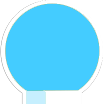
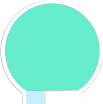
update

diff --git a/notebook.html b/notebook.html
@@ -129,20 +129,19 @@
     <li>
         <a href="javascript:void(0);" onclick="temper(1,'#journal')">Journal</a>
         <ul>
-            <li><a href="javascript:void(0);" onclick="temper(2)">Killswitch</a></li>
-            <li><a href="javascript:void(0);" onclick="temper(3)">Promoter Screen</a></li>
-            <li><a href="javascript:void(0);" onclick="temper(4)">Electrochemistry</a></li>
-            <li><a href="javascript:void(0);" onclick="temper(5)">Biosensor</a></li>
-            <li><a href="javascript:void(0);" onclick="temper(6)">Decarboxylation</a></li>
-            <li><a href="javascript:void(0);" onclick="temper(7)">Desulfurization</a></li>
-            <li><a href="javascript:void(0);" onclick="temper(8)">Denitrogenation</a></li>
-            <li><a href="javascript:void(0);" onclick="temper(9)">Catechol</a></li>
-            <li><a href="javascript:void(0);" onclick="temper(4)">Bioreactor</a></li>
-            <li><a href="javascript:void(0);" onclick="temper(4)">Flux Analysis</a></li>
+            <li><a href="javascript:void(0);" onclick="temper(2,'#feb')">Feb.</a></li>
+            <li><a href="javascript:void(0);" onclick="temper(3,'#mar')">Mar.</a></li>
+            <li><a href="javascript:void(0);" onclick="temper(4,'#apr')">Apr.</a></li>
+            <li><a href="javascript:void(0);" onclick="temper(5,'#may')">May.</a></li>
+            <li><a href="javascript:void(0);" onclick="temper(6,'#jun')">Jun.</a></li>
+            <li><a href="javascript:void(0);" onclick="temper(7,'#jul')">Jul.</a></li>
+            <li><a href="javascript:void(0);" onclick="temper(8,'#aug')">Aug.</a></li>
+            <li><a href="javascript:void(0);" onclick="temper(9,'#sep')">Sep.</a></li>
+           
         </ul>
     </li>
     <li>
-        <a href="javascript:void(0);" onclick="temper(4)">Protocols</a>
+        <a href="javascript:void(0);" onclick="temper(10)">Protocols</a>
     </li>
 </ul>
 
@@ -161,8 +160,149 @@
 
               <div class="main">
                 <ul class="cbp_tmtimeline">
+                    <div id="feb"></div>
                     <li>
-                        <time class="cbp_tmtime" datetime="2013-04-12 18:30"><span>4/12/13</span> <span>4-12</span></time>
+                        <time class="cbp_tmtime" datetime="2013-02-01"><span>2/1/13</span> <span>2-1</span></time>
+                        <div class="cbp_tmicon cbp_tmicon-phone"></div>
+                        <div class="cbp_tmlabel">
+                            <h2>Watercress ricebean</h2>
+                            <p>Peanut gourd nori welsh onion rock melon mustard jícama. Desert raisin amaranth kombu aubergine kale seakale brussels sprout pea. Black-eyed pea celtuce bamboo shoot salad kohlrabi leek squash prairie turnip catsear rock melon chard taro broccoli turnip greens. Fennel quandong potato watercress ricebean swiss chard garbanzo. Endive daikon brussels sprout lotus root silver beet epazote melon shallot.</p>
+                        </div>
+                    </li>
+                    <li>
+                        <time class="cbp_tmtime" datetime="2013-02-07"><span>2/7/13</span> <span>2-7</span></time>
+                        <div class="cbp_tmicon cbp_tmicon-phone"></div>
+                        <div class="cbp_tmlabel">
+                            <h2>Watercress ricebean</h2>
+                            <p>Peanut gourd nori welsh onion rock melon mustard jícama. Desert raisin amaranth kombu aubergine kale seakale brussels sprout pea. Black-eyed pea celtuce bamboo shoot salad kohlrabi leek squash prairie turnip catsear rock melon chard taro broccoli turnip greens. Fennel quandong potato watercress ricebean swiss chard garbanzo. Endive daikon brussels sprout lotus root silver beet epazote melon shallot.</p>
+                        </div>
+                    </li>
+                    <li>
+                        <time class="cbp_tmtime" datetime="2013-02-14"><span>2/14/13</span> <span>2-14</span></time>
+                        <div class="cbp_tmicon cbp_tmicon-phone"></div>
+                        <div class="cbp_tmlabel">
+                            <h2>Watercress ricebean</h2>
+                            <p>Peanut gourd nori welsh onion rock melon mustard jícama. Desert raisin amaranth kombu aubergine kale seakale brussels sprout pea. Black-eyed pea celtuce bamboo shoot salad kohlrabi leek squash prairie turnip catsear rock melon chard taro broccoli turnip greens. Fennel quandong potato watercress ricebean swiss chard garbanzo. Endive daikon brussels sprout lotus root silver beet epazote melon shallot.</p>
+                        </div>
+                    </li>
+                    <li>
+                        <time class="cbp_tmtime" datetime="2013-02-24"><span>2/24/13</span> <span>2-24</span></time>
+                        <div class="cbp_tmicon cbp_tmicon-phone"></div>
+                        <div class="cbp_tmlabel">
+                            <h2>Watercress ricebean</h2>
+                            <p>Peanut gourd nori welsh onion rock melon mustard jícama. Desert raisin amaranth kombu aubergine kale seakale brussels sprout pea. Black-eyed pea celtuce bamboo shoot salad kohlrabi leek squash prairie turnip catsear rock melon chard taro broccoli turnip greens. Fennel quandong potato watercress ricebean swiss chard garbanzo. Endive daikon brussels sprout lotus root silver beet epazote melon shallot.</p>
+                        </div>
+                    </li>
+                    <div id="mar"></div>
+                    <li>
+                        <time class="cbp_tmtime" datetime="2013-03-01"><span>3/1/13</span> <span>3-1</span></time>
+                        <div class="cbp_tmicon cbp_tmicon-phone"></div>
+                        <div class="cbp_tmlabel">
+                            <h2>Watercress ricebean</h2>
+                            <p>Peanut gourd nori welsh onion rock melon mustard jícama. Desert raisin amaranth kombu aubergine kale seakale brussels sprout pea. Black-eyed pea celtuce bamboo shoot salad kohlrabi leek squash prairie turnip catsear rock melon chard taro broccoli turnip greens. Fennel quandong potato watercress ricebean swiss chard garbanzo. Endive daikon brussels sprout lotus root silver beet epazote melon shallot.</p>
+                        </div>
+                    </li>
+                    <li>
+                        <time class="cbp_tmtime" datetime="2013-03-08"><span>3/8/13</span> <span>3-8</span></time>
+                        <div class="cbp_tmicon cbp_tmicon-phone"></div>
+                        <div class="cbp_tmlabel">
+                            <h2>Watercress ricebean</h2>
+                            <p>Peanut gourd nori welsh onion rock melon mustard jícama. Desert raisin amaranth kombu aubergine kale seakale brussels sprout pea. Black-eyed pea celtuce bamboo shoot salad kohlrabi leek squash prairie turnip catsear rock melon chard taro broccoli turnip greens. Fennel quandong potato watercress ricebean swiss chard garbanzo. Endive daikon brussels sprout lotus root silver beet epazote melon shallot.</p>
+                        </div>
+                    </li>
+                    <li>
+                        <time class="cbp_tmtime" datetime="2013-05-04"><span>3/14/13</span> <span>3-14</span></time>
+                        <div class="cbp_tmicon cbp_tmicon-phone"></div>
+                        <div class="cbp_tmlabel">
+                            <h2>Watercress ricebean</h2>
+                            <p>Peanut gourd nori welsh onion rock melon mustard jícama. Desert raisin amaranth kombu aubergine kale seakale brussels sprout pea. Black-eyed pea celtuce bamboo shoot salad kohlrabi leek squash prairie turnip catsear rock melon chard taro broccoli turnip greens. Fennel quandong potato watercress ricebean swiss chard garbanzo. Endive daikon brussels sprout lotus root silver beet epazote melon shallot.</p>
+                        </div>
+                    </li>
+                    <li>
+                        <time class="cbp_tmtime" datetime="2013-03-24"><span>3/24/13</span> <span>3-24</span></time>
+                        <div class="cbp_tmicon cbp_tmicon-phone"></div>
+                        <div class="cbp_tmlabel">
+                            <h2>Watercress ricebean</h2>
+                            <p>Peanut gourd nori welsh onion rock melon mustard jícama. Desert raisin amaranth kombu aubergine kale seakale brussels sprout pea. Black-eyed pea celtuce bamboo shoot salad kohlrabi leek squash prairie turnip catsear rock melon chard taro broccoli turnip greens. Fennel quandong potato watercress ricebean swiss chard garbanzo. Endive daikon brussels sprout lotus root silver beet epazote melon shallot.</p>
+                        </div>
+                    </li>
+                    <div id="apr"></div>
+                    <li>
+                        <time class="cbp_tmtime" datetime="2013-04-04"><span>4/4/13</span> <span>4-4</span></time>
+                        <div class="cbp_tmicon cbp_tmicon-phone"></div>
+                        <div class="cbp_tmlabel">
+                            <h2>Watercress ricebean</h2>
+                            <p>Peanut gourd nori welsh onion rock melon mustard jícama. Desert raisin amaranth kombu aubergine kale seakale brussels sprout pea. Black-eyed pea celtuce bamboo shoot salad kohlrabi leek squash prairie turnip catsear rock melon chard taro broccoli turnip greens. Fennel quandong potato watercress ricebean swiss chard garbanzo. Endive daikon brussels sprout lotus root silver beet epazote melon shallot.</p>
+                        </div>
+                    </li>
+                    <li>
+                        <time class="cbp_tmtime" datetime="2013-04-04"><span>4/4/13</span> <span>4-4</span></time>
+                        <div class="cbp_tmicon cbp_tmicon-phone"></div>
+                        <div class="cbp_tmlabel">
+                            <h2>Watercress ricebean</h2>
+                            <p>Peanut gourd nori welsh onion rock melon mustard jícama. Desert raisin amaranth kombu aubergine kale seakale brussels sprout pea. Black-eyed pea celtuce bamboo shoot salad kohlrabi leek squash prairie turnip catsear rock melon chard taro broccoli turnip greens. Fennel quandong potato watercress ricebean swiss chard garbanzo. Endive daikon brussels sprout lotus root silver beet epazote melon shallot.</p>
+                        </div>
+                    </li>
+                    <li>
+                        <time class="cbp_tmtime" datetime="2013-04-04"><span>4/4/13</span> <span>4-4</span></time>
+                        <div class="cbp_tmicon cbp_tmicon-phone"></div>
+                        <div class="cbp_tmlabel">
+                            <h2>Watercress ricebean</h2>
+                            <p>Peanut gourd nori welsh onion rock melon mustard jícama. Desert raisin amaranth kombu aubergine kale seakale brussels sprout pea. Black-eyed pea celtuce bamboo shoot salad kohlrabi leek squash prairie turnip catsear rock melon chard taro broccoli turnip greens. Fennel quandong potato watercress ricebean swiss chard garbanzo. Endive daikon brussels sprout lotus root silver beet epazote melon shallot.</p>
+                        </div>
+                    </li>
+                    <div id="may"></div>
+                    <li>
+                        <time class="cbp_tmtime" datetime="2013-05-04"><span>5/4/13</span> <span>5-4</span></time>
+                        <div class="cbp_tmicon cbp_tmicon-phone"></div>
+                        <div class="cbp_tmlabel">
+                            <h2>Watercress ricebean</h2>
+                            <p>Peanut gourd nori welsh onion rock melon mustard jícama. Desert raisin amaranth kombu aubergine kale seakale brussels sprout pea. Black-eyed pea celtuce bamboo shoot salad kohlrabi leek squash prairie turnip catsear rock melon chard taro broccoli turnip greens. Fennel quandong potato watercress ricebean swiss chard garbanzo. Endive daikon brussels sprout lotus root silver beet epazote melon shallot.</p>
+                        </div>
+                    </li>
+                    <li>
+                        <time class="cbp_tmtime" datetime="2013-05-04"><span>5/4/13</span> <span>5-4</span></time>
+                        <div class="cbp_tmicon cbp_tmicon-phone"></div>
+                        <div class="cbp_tmlabel">
+                            <h2>Watercress ricebean</h2>
+                            <p>Peanut gourd nori welsh onion rock melon mustard jícama. Desert raisin amaranth kombu aubergine kale seakale brussels sprout pea. Black-eyed pea celtuce bamboo shoot salad kohlrabi leek squash prairie turnip catsear rock melon chard taro broccoli turnip greens. Fennel quandong potato watercress ricebean swiss chard garbanzo. Endive daikon brussels sprout lotus root silver beet epazote melon shallot.</p>
+                        </div>
+                    </li>
+                    <li>
+                        <time class="cbp_tmtime" datetime="2013-05-04"><span>5/4/13</span> <span>5-4</span></time>
+                        <div class="cbp_tmicon cbp_tmicon-phone"></div>
+                        <div class="cbp_tmlabel">
+                            <h2>Watercress ricebean</h2>
+                            <p>Peanut gourd nori welsh onion rock melon mustard jícama. Desert raisin amaranth kombu aubergine kale seakale brussels sprout pea. Black-eyed pea celtuce bamboo shoot salad kohlrabi leek squash prairie turnip catsear rock melon chard taro broccoli turnip greens. Fennel quandong potato watercress ricebean swiss chard garbanzo. Endive daikon brussels sprout lotus root silver beet epazote melon shallot.</p>
+                        </div>
+                    </li>
+                    <li>
+                        <time class="cbp_tmtime" datetime="2013-05-04"><span>5/4/13</span> <span>5-4</span></time>
+                        <div class="cbp_tmicon cbp_tmicon-phone"></div>
+                        <div class="cbp_tmlabel">
+                            <h2>Watercress ricebean</h2>
+                            <p>Peanut gourd nori welsh onion rock melon mustard jícama. Desert raisin amaranth kombu aubergine kale seakale brussels sprout pea. Black-eyed pea celtuce bamboo shoot salad kohlrabi leek squash prairie turnip catsear rock melon chard taro broccoli turnip greens. Fennel quandong potato watercress ricebean swiss chard garbanzo. Endive daikon brussels sprout lotus root silver beet epazote melon shallot.</p>
+                        </div>
+                    </li>
+                    <div id="jun"></div>
+                    <li>
+                        <time class="cbp_tmtime" datetime="2013-06-04"><span>6/4/13</span> <span>6-4</span></time>
+                        <div class="cbp_tmicon cbp_tmicon-phone"></div>
+                        <div class="cbp_tmlabel">
+                            <h2>Watercress ricebean</h2>
+                            <p>Peanut gourd nori welsh onion rock melon mustard jícama. Desert raisin amaranth kombu aubergine kale seakale brussels sprout pea. Black-eyed pea celtuce bamboo shoot salad kohlrabi leek squash prairie turnip catsear rock melon chard taro broccoli turnip greens. Fennel quandong potato watercress ricebean swiss chard garbanzo. Endive daikon brussels sprout lotus root silver beet epazote melon shallot.</p>
+                        </div>
+                    </li>
+                    <li>
+                        <time class="cbp_tmtime" datetime="2013-06-04"><span>6/4/13</span> <span>6-4</span></time>
+                        <div class="cbp_tmicon cbp_tmicon-phone"></div>
+                        <div class="cbp_tmlabel">
+                            <h2>Watercress ricebean</h2>
+                            <p>Peanut gourd nori welsh onion rock melon mustard jícama. Desert raisin amaranth kombu aubergine kale seakale brussels sprout pea. Black-eyed pea celtuce bamboo shoot salad kohlrabi leek squash prairie turnip catsear rock melon chard taro broccoli turnip greens. Fennel quandong potato watercress ricebean swiss chard garbanzo. Endive daikon brussels sprout lotus root silver beet epazote melon shallot.</p>
+                        </div>
+                    </li>
+                    <li>
+                        <time class="cbp_tmtime" datetime="2013-04-12"><span>4/12/13</span> <span>4-12</span></time>
                         <div class="cbp_tmicon cbp_tmicon-phone"></div>
                         <div class="cbp_tmlabel">
                             <h2>iGEM第一次会议</h2>
@@ -177,8 +317,9 @@
 </p>
                         </div>
                     </li>
+                    <div id="jul"></div>
                     <li>
-                        <time class="cbp_tmtime" datetime="2013-04-20 12:04"><span>4/20/13</span> <span>4-20</span></time>
+                        <time class="cbp_tmtime" datetime="2013-07-20"><span>7/20/13</span> <span>7-20</span></time>
                         <div class="cbp_tmicon cbp_tmicon-screen"></div>
                         <div class="cbp_tmlabel">
                             <h2>iGEM第二次会议</h2>
@@ -195,15 +336,16 @@
                         </div>
                     </li>
                     <li>
-                        <time class="cbp_tmtime" datetime="2013-04-28 05:36"><span>4/28/13</span> <span>4-28</span></time>
+                        <time class="cbp_tmtime" datetime="2013-04-28"><span>4/28/13</span> <span>4-28</span></time>
                         <div class="cbp_tmicon cbp_tmicon-mail"></div>
                         <div class="cbp_tmlabel">
                             <h2>Sprout garlic kohlrabi</h2>
                             <p>Parsnip lotus root celery yarrow seakale tomato collard greens tigernut epazote ricebean melon tomatillo soybean chicory broccoli beet greens peanut salad. Lotus root burdock bell pepper chickweed shallot groundnut pea sprouts welsh onion wattle seed pea salsify turnip scallion peanut arugula bamboo shoot onion swiss chard. Avocado tomato peanut soko amaranth grape fennel chickweed mung bean soybean endive squash beet greens carrot chicory green bean. Tigernut dandelion sea lettuce garlic daikon courgette celery maize parsley komatsuna black-eyed pea bell pepper aubergine cauliflower zucchini. Quandong pea chickweed tomatillo quandong cauliflower spinach water spinach.</p>
                         </div>
                     </li>
+                    <div id="aug"></div>
                     <li>
-                        <time class="cbp_tmtime" datetime="2013-05-04 13:15"><span>5/4/13</span> <span>5-4</span></time>
+                        <time class="cbp_tmtime" datetime="2013-08-04"><span>8/4/13</span> <span>8-4</span></time>
                         <div class="cbp_tmicon cbp_tmicon-phone"></div>
                         <div class="cbp_tmlabel">
                             <h2>Watercress ricebean</h2>
@@ -211,15 +353,16 @@
                         </div>
                     </li>
                     <li>
-                        <time class="cbp_tmtime" datetime="2013-05-10 21:30"><span>5/10/13</span> <span>5-10</span></time>
+                        <time class="cbp_tmtime" datetime="2013-08-10"><span>8/10/13</span> <span>8-10</span></time>
                         <div class="cbp_tmicon cbp_tmicon-earth"></div>
                         <div class="cbp_tmlabel">
                             <h2>Courgette daikon</h2>
                             <p>Parsley amaranth tigernut silver beet maize fennel spinach. Ricebean black-eyed pea maize scallion green bean spinach cabbage jícama bell pepper carrot onion corn plantain garbanzo. Sierra leone bologi komatsuna celery peanut swiss chard silver beet squash dandelion maize chicory burdock tatsoi dulse radish wakame beetroot.</p>
                         </div>
                     </li>
+                    
                     <li>
-                        <time class="cbp_tmtime" datetime="2013-05-19 12:11"><span>5/19/13</span> <span>5-18</span></time>
+                        <time class="cbp_tmtime" datetime="2013-07-19"><span>7/19/13</span> <span>7-18</span></time>
                         <div class="cbp_tmicon cbp_tmicon-screen"></div>
                         <div class="cbp_tmlabel">
                             <h2>Greens radish arugula</h2>
@@ -227,7 +370,32 @@
                         </div>
                     </li>
                     <li>
-                        <time class="cbp_tmtime" datetime="2013-05-28 09:56"><span>5/28/13</span> <span>5-28</span></time>
+                        <time class="cbp_tmtime" datetime="2013-07-28"><span>7/28/13</span> <span>7-28</span></time>
+                        <div class="cbp_tmicon cbp_tmicon-phone"></div>
+                        <div class="cbp_tmlabel">
+                            <h2>Sprout garlic kohlrabi</h2>
+                            <p>Parsnip lotus root celery yarrow seakale tomato collard greens tigernut epazote ricebean melon tomatillo soybean chicory broccoli beet greens peanut salad. Lotus root burdock bell pepper chickweed shallot groundnut pea sprouts welsh onion wattle seed pea salsify turnip scallion peanut arugula bamboo shoot onion swiss chard. Avocado tomato peanut soko amaranth grape fennel chickweed mung bean soybean endive squash beet greens carrot chicory green bean. Tigernut dandelion sea lettuce garlic daikon courgette celery maize parsley komatsuna black-eyed pea bell pepper aubergine cauliflower zucchini. Quandong pea chickweed tomatillo quandong cauliflower spinach water spinach.</p>
+                        </div>
+                    </li>
+                    <li>
+                        <time class="cbp_tmtime" datetime="2013-07-28"><span>7/28/13</span> <span>7-28</span></time>
+                        <div class="cbp_tmicon cbp_tmicon-phone"></div>
+                        <div class="cbp_tmlabel">
+                            <h2>Sprout garlic kohlrabi</h2>
+                            <p>Parsnip lotus root celery yarrow seakale tomato collard greens tigernut epazote ricebean melon tomatillo soybean chicory broccoli beet greens peanut salad. Lotus root burdock bell pepper chickweed shallot groundnut pea sprouts welsh onion wattle seed pea salsify turnip scallion peanut arugula bamboo shoot onion swiss chard. Avocado tomato peanut soko amaranth grape fennel chickweed mung bean soybean endive squash beet greens carrot chicory green bean. Tigernut dandelion sea lettuce garlic daikon courgette celery maize parsley komatsuna black-eyed pea bell pepper aubergine cauliflower zucchini. Quandong pea chickweed tomatillo quandong cauliflower spinach water spinach.</p>
+                        </div>
+                    </li>
+                    <div id="sep"></div>
+                    <li>
+                        <time class="cbp_tmtime" datetime="2013-09-28"><span>9/28/13</span> <span>9-28</span></time>
+                        <div class="cbp_tmicon cbp_tmicon-phone"></div>
+                        <div class="cbp_tmlabel">
+                            <h2>Sprout garlic kohlrabi</h2>
+                            <p>Parsnip lotus root celery yarrow seakale tomato collard greens tigernut epazote ricebean melon tomatillo soybean chicory broccoli beet greens peanut salad. Lotus root burdock bell pepper chickweed shallot groundnut pea sprouts welsh onion wattle seed pea salsify turnip scallion peanut arugula bamboo shoot onion swiss chard. Avocado tomato peanut soko amaranth grape fennel chickweed mung bean soybean endive squash beet greens carrot chicory green bean. Tigernut dandelion sea lettuce garlic daikon courgette celery maize parsley komatsuna black-eyed pea bell pepper aubergine cauliflower zucchini. Quandong pea chickweed tomatillo quandong cauliflower spinach water spinach.</p>
+                        </div>
+                    </li>
+                    <li>
+                        <time class="cbp_tmtime" datetime="2013-09-28"><span>9/28/13</span> <span>9-28</span></time>
                         <div class="cbp_tmicon cbp_tmicon-phone"></div>
                         <div class="cbp_tmlabel">
                             <h2>Sprout garlic kohlrabi</h2>

diff --git a/css/segmentation.min.css b/css/segmentation.min.css
@@ -104,12 +104,12 @@
     transition: height 0.4s ease-out
 }
 #sidebar .list .temper .color-team #mercury{
-    background: #0099FF;
-    background-image: -webkit-linear-gradient(top,#0099FF,#551A8B);
-    background-image: -moz-linear-gradient(top,#0099FF,#551A8B);
-    background-image: -ms-linear-gradient(top,#0099FF,#551A8B);
-    background-image: -o-linear-gradient(top,#0099FF,#551A8B);
-    background-image: linear-gradient(top,#0099FF,#551A8B);
+    background: #99CCFF;
+    background-image: -webkit-linear-gradient(top,#99CCFF,#551A8B);
+    background-image: -moz-linear-gradient(top,#99CCFF,#551A8B);
+    background-image: -ms-linear-gradient(top,#99CCFF,#551A8B);
+    background-image: -o-linear-gradient(top,#99CCFF,#551A8B);
+    background-image: linear-gradient(top,#99CCFF,#551A8B);
 }
 #sidebar .list .temper .color-notebook #mercury{
     background: #FFCC00;
@@ -128,12 +128,12 @@
     background-image: linear-gradient(top,#9999FF,#8B8386);
 }
 #sidebar .list .temper .color-modeling #mercury{
-    background: #44CCFF;
-    background-image: -webkit-linear-gradient(top,#44CCFF,#528B8B);
-    background-image: -moz-linear-gradient(top,#44CCFF,#528B8B);
-    background-image: -ms-linear-gradient(top,#44CCFF,#528B8B);
-    background-image: -o-linear-gradient(top,#44CCFF,#528B8B);
-    background-image: linear-gradient(top,#44CCFF,#528B8B);
+    background: #66eeCC;
+    background-image: -webkit-linear-gradient(top,#66eeCC,#528B8B);
+    background-image: -moz-linear-gradient(top,#66eeCC,#528B8B);
+    background-image: -ms-linear-gradient(top,#66eeCC,#528B8B);
+    background-image: -o-linear-gradient(top,#66eeCC,#528B8B);
+    background-image: linear-gradient(top,#66eeCC,#528B8B);
 }
 
 #sidebar .list .temper .color-humanpractice #mercury{
